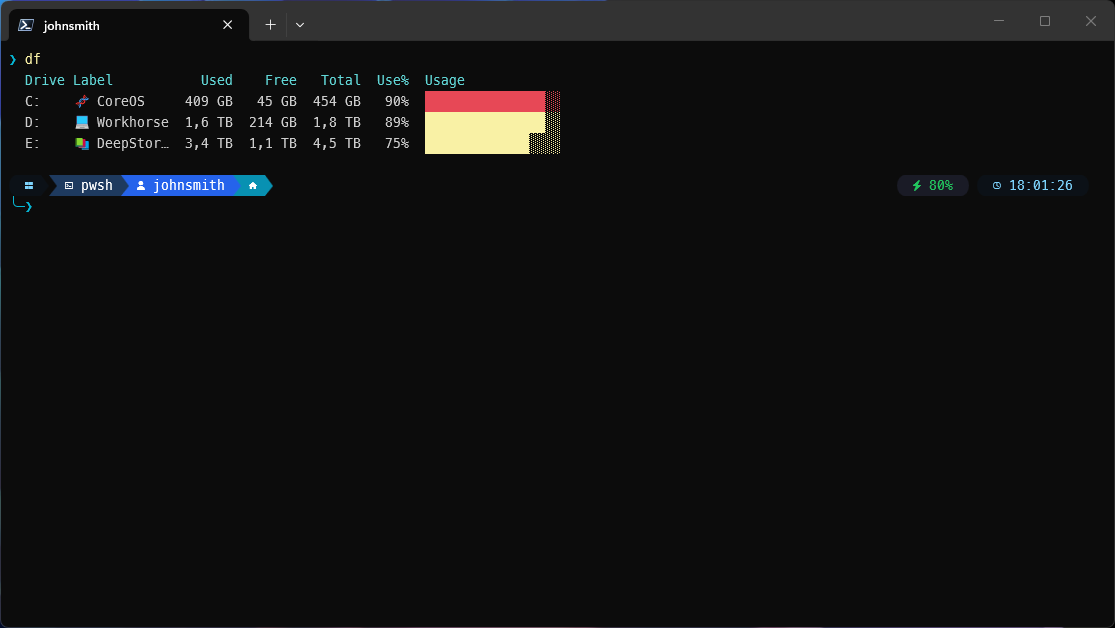
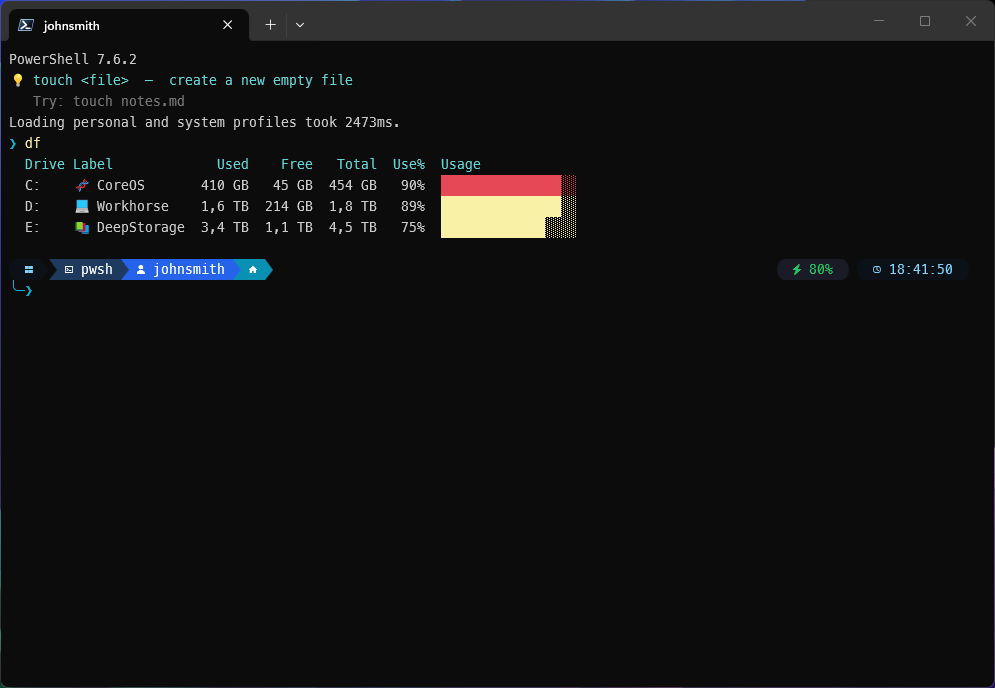
0.1.12 — Add wtf: AI error explainer
Pipe the last $Error (or any text) to Claude Haiku and get back a concise
plain-English explanation + likely fix. Three invocation modes covered:

  wtf                           # explain $Error[0]
  wtf "<pasted error>"          # explain arbitrary text
  $Error[0] | wtf               # pipe an ErrorRecord
  Some-Command 2>&1 | wtf       # pipe command output (errors and all)

Reuses the Anthropic-API-Key SecretStore convention from tagdl, falling
back to $env:ANTHROPIC_API_KEY, then a friendly "no key found" message.
~$0.001 per call on Haiku 4.5. New file Profiles/Common/Wtf.ps1.

Wired into Tips, README helper table, poster daily-driver tiles, and the
Smoke.Tests expected-commands list. PSScriptAnalyzer flags the unapproved
verb name "wtf" — accepted as intentional, matches the spirit of the
function. Pester 23/23 still green.

diff --git a/docs/poster.html b/docs/poster.html
@@ -355,6 +355,11 @@ oh-my-posh init pwsh --config <span class="highlight-green">'C:\theme.json'</spa
                         <div class="text-xs text-gray-300 mono font-semibold">rdp&nbsp;/&nbsp;rps</div>
                         <div class="text-xs text-gray-500 mt-1">Remote servers</div>
                     </div>
+                    <div class="glass rounded-xl p-4 text-center hover:bg-white/10 transition-colors cursor-default">
+                        <div class="text-2xl mb-2">🤔</div>
+                        <div class="text-xs text-gray-300 mono font-semibold">wtf</div>
+                        <div class="text-xs text-gray-500 mt-1">Error → Claude</div>
+                    </div>
                 </div>
             </div>
 

diff --git a/CHANGELOG.md b/CHANGELOG.md
@@ -6,6 +6,12 @@ The format follows [Keep a Changelog](https://keepachangelog.com/en/1.1.0/), and
 
 ## [Unreleased]
 
+## [0.1.12] - 2026-05-25
+
+### Added
+
+- **`wtf`** — pipe the last `$Error` (or any text) to Claude Haiku and get back a plain-English explanation + likely fix. Three invocation modes: `wtf` with no args explains `$Error[0]`; `wtf "<pasted error>"` explains arbitrary text; `$Error[0] | wtf` and `Some-Command 2>&1 | wtf` accept pipeline input (ErrorRecord or anything else). Reuses the `Anthropic-API-Key` SecretStore convention with `$env:ANTHROPIC_API_KEY` fallback. Costs ~$0.001 per call on Haiku 4.5. New file: `Profiles/Common/Wtf.ps1`.
+
 ## [0.1.11] - 2026-05-25
 
 ### Fixed
@@ -134,7 +140,8 @@ Initial public release. Extracted and reorganized from a larger private reposito
 - **Documentation**: top-level [README.md](README.md), [`docs/ARCHITECTURE.md`](docs/ARCHITECTURE.md) (design decisions + load-bearing conventions), [`Profiles/LOADING.md`](Profiles/LOADING.md) (loader internals), per-folder READMEs for OhMyPosh/Machines/Hosts.
 - **Continuous integration**: PSScriptAnalyzer lint + Pester smoke tests on `windows-latest` via GitHub Actions.
 
-[Unreleased]: https://github.com/haakonwibe/pwsh-toolkit/compare/v0.1.11...HEAD
+[Unreleased]: https://github.com/haakonwibe/pwsh-toolkit/compare/v0.1.12...HEAD
+[0.1.12]: https://github.com/haakonwibe/pwsh-toolkit/compare/v0.1.11...v0.1.12
 [0.1.11]: https://github.com/haakonwibe/pwsh-toolkit/compare/v0.1.10...v0.1.11
 [0.1.10]: https://github.com/haakonwibe/pwsh-toolkit/compare/v0.1.9...v0.1.10
 [0.1.9]: https://github.com/haakonwibe/pwsh-toolkit/compare/v0.1.8...v0.1.9

diff --git a/README.md b/README.md
@@ -56,6 +56,7 @@ After an OMP install, set your terminal font to a Meslo Nerd Font variant — **
 | **`Get-OrCreateSecret`** | Retrieve a SecretStore secret or prompt to create it. Companion: `Get-StoredSecrets`, `Remove-StoredSecret`. |
 | **`rdp` / `rps`** | Remote-server shortcuts driven by `config.psd1`'s `RemoteServers` list. `rdp` launches `mstsc`, `rps` launches `Enter-PSSession`. No arg → picker (digit shortcuts, arrow keys, Esc). `rdp <name-or-address>` → fuzzy match against the configured list first, falling back to treating the argument as a literal address (so `rps 10.0.0.2` and `rdp myhost.lab` work without adding bookmarks first). |
 | **`ask <question>`** | Quick reference via the ch.at API. `ask -Brief "..."` for one-line answers. |
+| **`wtf`** | Ask Claude Haiku what went wrong with the last error. No-arg explains `$Error[0]`; `wtf "<pasted error>"` works on arbitrary text; `$Error[0] \| wtf` and `Some-Command 2>&1 \| wtf` pipe in. Reuses the `Anthropic-API-Key` SecretStore convention. ~$0.001 per call. |
 | **`docs` / `desktop` / `downloads` / `onedrive` / `home`** | Named navigation shortcuts. OneDrive paths auto-detect your Business org from `$env:OneDriveCommercial`. |
 | **`tip`** | Re-roll the rotating profile tip. Set `$env:PSPROFILE_NO_TIPS=1` to silence at startup. |
 | **`ll` / `la` / `touch` / `which`** | The shell-script staples. |